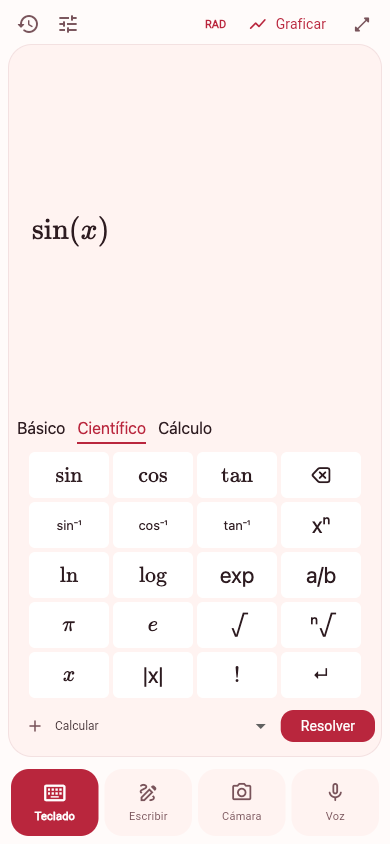
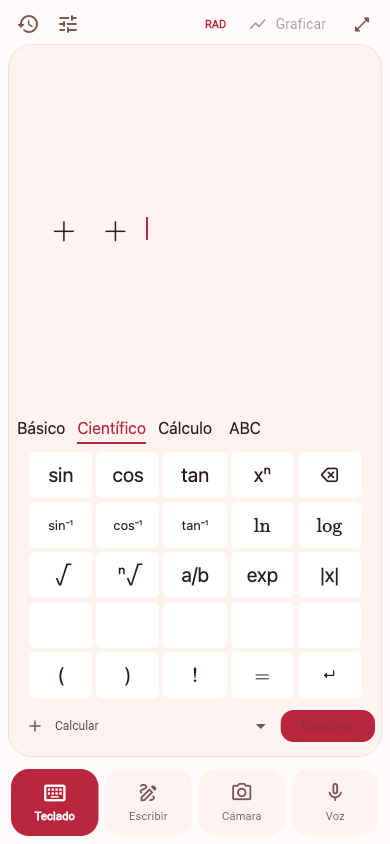
Add QWERTY input and scientific variable keys

diff --git a/app/assets/editor/index.html b/app/assets/editor/index.html
@@ -6,6 +6,8 @@
 body{display:flex;flex-direction:column;overflow-y:auto}#field-wrap{padding:8px 6px;min-height:96px;display:flex;align-items:center;flex:1;overflow:auto}math-field{width:100%;min-width:0;border:0;outline:none;background:transparent;color:var(--fg);font-size:30px;padding:6px;--caret-color:var(--accent);--selection-background-color:#c42d4340;--placeholder-color:var(--accent);--contains-highlight-background-color:#c42d4320;--smart-fence-color:var(--accent)}math-field::part(virtual-keyboard-toggle),math-field::part(menu-toggle){display:none}
 #keyboard{width:100%;height:280px;flex-shrink:0;position:relative;--keyboard-background:var(--bg);--keyboard-toolbar-background:var(--bg);--keycap-background:var(--key);--keycap-text:var(--fg);--keycap-background-hover:var(--key-hover);--keycap-text-hover:var(--fg);--keycap-background-active:var(--key-pressed);--keycap-text-active:var(--fg);--keycap-background-pressed:var(--key-pressed);--keycap-text-pressed:var(--fg);--keycap-secondary-background:var(--key);--keycap-secondary-background-hover:var(--key-hover);--keycap-secondary-text:var(--fg);--keycap-primary-background:var(--accent);--keycap-primary-background-hover:var(--accent);--keycap-primary-text:var(--on-accent);--keycap-height:46px;--keycap-width:calc((100cqw - 24px)/4);--keyboard-toolbar-font-size:14px;--keyboard-toolbar-text-active:var(--accent);--keycap-gap:4px;--keycap-font-size:22px;--keyboard-padding-bottom:4px;--keyboard-padding-top:4px;--keycap-border:1px solid var(--line);--keycap-border-radius:12px;--keycap-shadow:none;--keyboard-toolbar-text:var(--fg)}
 #keyboard .MLK__toolbar>.left{column-gap:8px}
+#jem-scientific .MLK__rows{--keycap-width:calc((100cqw - 24px)/5);--_keycap-font-size:20px;--_keycap-small-font-size:13px}
+#jem-abc .MLK__rows{--keycap-width:min(68px,calc((100cqw - 16px)/10));--_keycap-gap:2px;--_keycap-font-size:18px}
 #keyboard.hidden{display:none}body.compact #field-wrap{min-height:60px;padding:4px 8px}body.compact math-field{font-size:27px}
 @media(max-height:420px){#field-wrap{min-height:64px;padding:0 6px}}
 </style></head><body><div id="field-wrap"><math-field id="mf" aria-label="Equation" inputmode="none" math-virtual-keyboard-policy="manual"></math-field></div><div id="keyboard"></div>
@@ -22,6 +24,9 @@ function key(label, latex=label){return {label,latex};}
 function functionKey(latex){return {latex,label:latex.slice(1),insert:latex+'\\left(#0\\right?'};}
 // typedText uses MathLive's smart-fence behavior when closing a function.
 function fenceKey(label){return {label,command:['typedText',label,{simulateKeystroke:true}]};}
+// QWERTY enters mathematical letters and numbers in the current argument.
+function typedKey(letter){return {label:letter,command:['typedText',letter,{simulateKeystroke:true}]};}
+function letterKeys(letters){return [...letters].map(letter=>({...typedKey(letter),shift:typedKey(letter.toUpperCase())}));}
 function layouts(es){return [
  {label:es?'Básico':'Basic',tooltip:'123',rows:[
  [{label:'C',command:'deleteAll'},fenceKey('('),fenceKey(')'),{label:'⌫',command:'deleteBackward'}],
@@ -29,18 +34,18 @@ function layouts(es){return [
  [key('4'),key('5'),key('6'),key('×','\\times')],
  [key('1'),key('2'),key('3'),key('−','-')],
  [key('0'),key('.'),key('='),key('+')]]},
- {label:es?'Científico':'Scientific',rows:[
- [functionKey('\\sin'),functionKey('\\cos'),functionKey('\\tan'),{label:'⌫',command:'deleteBackward'}],
+ {label:es?'Científico':'Scientific',layers:[{id:'jem-scientific',rows:[
+ [functionKey('\\sin'),functionKey('\\cos'),functionKey('\\tan'),
+  {latex:'^{#?}',label:'xⁿ'},{label:'⌫',command:'deleteBackward'}],
  [{latex:'\\arcsin',label:'sin⁻¹',class:'small'},
   {latex:'\\arccos',label:'cos⁻¹',class:'small'},
-  {latex:'\\arctan',label:'tan⁻¹',class:'small'},
-  {latex:'^{#?}',label:'xⁿ'}],
- ['\\ln','\\log',{latex:'\\exp\\left(#0\\right)',label:'exp'},
-  {latex:'\\frac{#0}{#?}',label:'a/b'}],
- ['\\pi','e',{latex:'\\sqrt{#0}',label:'√'},
-  {latex:'\\sqrt[#?]{#0}',label:'ⁿ√'}],
- ['x',{latex:'\\left|#0\\right|',label:'|x|'},'!',
-  {label:'↵',class:'action',command:['performWithFeedback','commit']}]]},
+  {latex:'\\arctan',label:'tan⁻¹',class:'small'},'\\ln','\\log'],
+ [{latex:'\\sqrt{#0}',label:'√'},{latex:'\\sqrt[#?]{#0}',label:'ⁿ√'},
+  {latex:'\\frac{#0}{#?}',label:'a/b'},{latex:'\\exp\\left(#0\\right)',label:'exp'},
+  {latex:'\\left|#0\\right|',label:'|x|'}],
+ ['x','y','z','\\pi','e'],
+ [fenceKey('('),fenceKey(')'),'!','=',
+  {label:'↵',class:'action',command:['performWithFeedback','commit']}]]}]},
  {label:es?'Cálculo':'Calculus',rows:[
  [{latex:'\\frac{d}{dx}\\left(#0\\right)',label:'d/dx'},
   {latex:'\\int #0 \\,\\mathrm{d}x',label:'∫'},
@@ -50,7 +55,16 @@ function layouts(es){return [
  [key('dx','\\,\\mathrm{d}x'),key('dy','\\,\\mathrm{d}y'),key('dz','\\,\\mathrm{d}z'),key('dt','\\,\\mathrm{d}t')],
  [fenceKey('('),fenceKey(')'),'=',{latex:';',label:es?'fila':'row'}],
  [{label:'↶',command:'undo'},{label:'↷',command:'redo'},
-  {label:'←',command:'moveToPreviousChar'},{label:'→',command:'moveToNextChar'}]]}
+  {label:'←',command:'moveToPreviousChar'},{label:'→',command:'moveToNextChar'}]]},
+ {label:'ABC',tooltip:es?'Letras · QWERTY':'Letters · QWERTY',displayShiftedKeycaps:false,layers:[{id:'jem-abc',rows:[
+ [...'1234567890'].map(n=>typedKey(n)),
+ letterKeys('qwertyuiop'),
+ ['[separator-5]',...letterKeys('asdfghjkl'),'[separator-5]'],
+ [{label:'[shift]',tooltip:es?'Mayúsculas':'Uppercase',width:1.5},...letterKeys('zxcvbnm'),{label:'⌫',command:'deleteBackward',width:1.5}],
+ [fenceKey('('),fenceKey(')'),key('+'),key('−','-'),key('='),
+  {...typedKey(' '),label:'␣',tooltip:es?'Espacio':'Space',width:2},
+  {label:'←',command:'moveToPreviousChar'},{label:'→',command:'moveToNextChar'},
+  {label:'↵',class:'action',command:['performWithFeedback','commit']}]]}]}
 ];}
 // Reconcile against MathLive's actual state after the native view has resized.
 // A requested keyboard can become hidden when its WebView loses focus.
@@ -63,6 +77,16 @@ let syncFrame;
 function scheduleKeyboardSync(){cancelAnimationFrame(syncFrame);syncFrame=requestAnimationFrame(syncKeyboard);}
 new ResizeObserver(scheduleKeyboardSync).observe(document.documentElement);
 mf.addEventListener('focus',scheduleKeyboardSync);
+// This manual keyboard belongs to one editor, even while Flutter has focus.
+// Route editing commands directly to it instead of relying on MathLive's
+// delayed (60ms) reconnection of a blurred field to the virtual keyboard.
+const dispatchKeyboardCommand=window.mathVirtualKeyboard.executeCommand.bind(window.mathVirtualKeyboard);
+const keyboardCommands=new Set(['switchKeyboardLayer','toggleVirtualKeyboard','hideVirtualKeyboard','showVirtualKeyboard']);
+window.mathVirtualKeyboard.executeCommand=command=>{
+ const selector=Array.isArray(command)?command[0]:command;
+ if(keyboardCommands.has(selector))return dispatchKeyboardCommand(command);
+ mf.focus({preventScroll:true});return mf.executeCommand(command);
+};
 mf.menuItems=[];mf.smartFence=true;mf.inlineShortcuts={...mf.inlineShortcuts,sen:'\\sin',tg:'\\tan'};
 window.configure=function(c){
  const st=document.documentElement.style;const dark=c.dark;

diff --git a/app/test/core/model_test.dart b/app/test/core/model_test.dart
@@ -83,6 +83,33 @@ void main() {
     return model;
   }
 
+  test('variable picker offers actual letters, not functions or constants', () {
+    final m = model()..edit(r'a+b+N+\sin(q)+\pi+e');
+    expect(m.variableOptions, ['x', 'y', 'z', 't', 'a', 'b', 'N', 'q']);
+    m.setVariable('q');
+    m.edit(r'\frac{a}{');
+    expect(m.variableOptions, contains('q'));
+  });
+
+  test('QWERTY variables can be selected for calculus and persist', () async {
+    FlutterSecureStorage.setMockInitialValues({});
+    final m = model()
+      ..edit('a^2+b')
+      ..setOperation('differentiate')
+      ..setVariable('a');
+    final pending = m.calculate();
+    expect(api.calls.single.body['variable'], 'a');
+    expect(api.calls.single.body['operation'], 'differentiate');
+    api.calls.single.response.complete(answer('2a'));
+    await pending;
+    await m.save();
+    final reopened = AppModel(store: store);
+    addTearDown(reopened.dispose);
+    await reopened.load();
+    expect(reopened.variable, 'a');
+    expect(reopened.variableOptions, containsAll(['a', 'b']));
+  });
+
   test(
     'curve visibility survives reopening without deleting calculation history',
     () async {

diff --git a/app/lib/core/model.dart b/app/lib/core/model.dart
@@ -520,6 +520,18 @@ class AppModel extends ChangeNotifier {
     }
   }
 
+  /// Offer the letters actually used in the equation as calculation targets.
+  /// Read the AST so function names and constants don't become fake variables.
+  List<String> get variableOptions {
+    final names = <String>{'x', 'y', 'z', 't', variable};
+    try {
+      names.addAll(_symbols(parseLatex(latex)));
+    } on MathParseException {
+      // Keep the current selection available while an expression is incomplete.
+    }
+    return names.toList();
+  }
+
   bool requiresCasStructure(dynamic node) {
     if (node is List) return node.any(requiresCasStructure);
     if (node is! Map) return false;

diff --git a/app/lib/features/home.dart b/app/lib/features/home.dart
@@ -485,12 +485,9 @@ class _Actions extends StatelessWidget {
             tooltip: s.t('Variable', 'Variable'),
             initialValue: m.variable,
             onSelected: m.setVariable,
-            itemBuilder: (_) => [
-              'x',
-              'y',
-              'z',
-              't',
-            ].map((v) => PopupMenuItem(value: v, child: Text(v))).toList(),
+            itemBuilder: (_) => m.variableOptions
+                .map((v) => PopupMenuItem(value: v, child: Text(v)))
+                .toList(),
             child: Padding(
               padding: const EdgeInsets.symmetric(horizontal: 10),
               child: Text(

diff --git a/server/jemcalc/templates/android.html b/server/jemcalc/templates/android.html
@@ -35,7 +35,7 @@
     <p>Tu calculadora, siempre a mano.</p>
   </header>
   <a class="download" href="/downloads/{{apk}}" download>Descargar APK</a>
-  <p class="meta">Versión 1.0.5 · 64 MB · Android 7 o posterior</p>
+  <p class="meta">Versión 1.0.6 · 64 MB · Android 7 o posterior</p>
   <ol>
     <li>Descarga el archivo y ábrelo.</li>
     <li>Si Android lo solicita, permite a tu navegador <strong>instalar desde esta fuente</strong>.</li>

diff --git a/server/jemcalc/production.py b/server/jemcalc/production.py
@@ -26,7 +26,7 @@ from .config import get_settings
 COOKIE = "__Host-jemcalc"
 SESSION_SECONDS = 7 * 24 * 3600
 HERE = Path(__file__).parent
-ANDROID_APK = "jemcalc-1.0.5-7.apk"
+ANDROID_APK = "jemcalc-1.0.6-8.apk"
 
 
 def login_destination(value: str | None):

diff --git a/README.md b/README.md
@@ -47,7 +47,11 @@ Las capturas muestran la aplicación web real con su paleta roja y ecuaciones de
 
 ### 1. Teclado: cálculo científico y simbólico
 
-Introduce fracciones, raíces, potencias y funciones con las pestañas **Básico**, **Científico** y **Cálculo**. Selecciona la operación y pulsa **Resolver** o Enter. La pantalla de la ecuación se puede maximizar. Las teclas `sin`, `cos` y `tan` abren el argumento automáticamente y dejan el cursor dentro; `)` permite continuar fuera de la función. Las teclas pulsadas usan un resaltado suave y legible en el tema claro.
+Introduce fracciones, raíces, potencias y funciones con las pestañas **Básico**, **Científico**, **Cálculo** y **ABC**. Selecciona la operación y pulsa **Resolver** o Enter. La pantalla de la ecuación se puede maximizar. Las teclas `sin`, `cos` y `tan` abren el argumento automáticamente y dejan el cursor dentro; `)` permite continuar fuera de la función. Las teclas pulsadas usan un resaltado suave y legible en el tema claro.
+
+El teclado **Científico** incluye `x`, `y` y `z`. **ABC** abre un QWERTY con letras A–Z, mayúsculas con Shift, números, paréntesis, operadores, espacio, flechas y borrado. Los cuatro teclados mantienen cinco filas para conservar espacio para la ecuación. Las variables son letras individuales; `e` y `π` mantienen su significado como constantes matemáticas. Para derivar o integrar, el selector de variable también ofrece las letras presentes en la expresión, como `a` o `n`.
+
+![Teclado QWERTY para escribir variables y completar ecuaciones](docs/screenshots/qwerty.png)
 
 - **Calcular** evalúa aritmética racional exacta o aproximaciones numéricas locales.
 - **Exacto**, **Simplificar**, **Expandir** y **Factorizar** usan el CAS.
@@ -174,7 +178,7 @@ El backend de desarrollo requiere que la Mac siga encendida y sea accesible para
 
 ### Instalar el APK Android sin herramientas de desarrollo
 
-Desde el teléfono, abre [Instalar Jem Calc para Android](https://calc.jemailabs.com/android). Introduce la clave del piloto si se solicita; al iniciar sesión volverás a la página de instalación. Pulsa **Descargar APK** (versión 1.0.5, compilación 7), abre el archivo y, si Android lo solicita, permite a ese navegador instalar aplicaciones de esa fuente. No requiere depuración USB. Si lo abriste dentro de otra app y no comienza la descarga, abre la página en Chrome.
+Desde el teléfono, abre [Instalar Jem Calc para Android](https://calc.jemailabs.com/android). Introduce la clave del piloto si se solicita; al iniciar sesión volverás a la página de instalación. Pulsa **Descargar APK** (versión 1.0.6, compilación 8), abre el archivo y, si Android lo solicita, permite a ese navegador instalar aplicaciones de esa fuente. No requiere depuración USB. Si lo abriste dentro de otra app y no comienza la descarga, abre la página en Chrome.
 
 La app ya apunta al servidor alojado. Introduce el token del piloto facilitado por el administrador en **Configuración → Token del piloto**, guarda los cambios y prueba `x+1=2`. El token nativo es diferente de la clave de acceso de la web y no está dentro del instalador.
 
@@ -190,7 +194,7 @@ keyPassword=TU_CONTRASENA_PRIVADA
 Desde `app/`, con los certificados opcionales `assets/pilot/server.pem` y `server.der` guardados temporalmente fuera de los assets para una distribución de producción:
 
 ```sh
-flutter build apk --release --build-name=1.0.5 --build-number=7 \
+flutter build apk --release --build-name=1.0.6 --build-number=8 \
   --dart-define=PILOT_URL=https://calc.jemailabs.com/api
 ```
 
@@ -268,6 +272,7 @@ Para pruebas de navegador, instala Playwright en un entorno local y ejecuta desd
 node scripts/test_web.mjs
 node scripts/test_editor.mjs
 node scripts/test_graph_systems_web.mjs
+node scripts/test_qwerty_web.mjs
 ```
 
 Los scripts usan Chrome instalado. Si el módulo está en otro entorno, define `PLAYWRIGHT_MODULE` con la ruta absoluta a su `index.mjs`. Los informes y capturas se guardan en `output/playwright/`, excluido de Git.

diff --git a/deploy/README.md b/deploy/README.md
@@ -11,7 +11,7 @@ The owner chose a private pilot with a shared access password on 6 October 2026.
 - `/home/juan/jemcalc/current` points to the active release.
 - The download mount was added in configuration release `20261007-android-installer`, reusing the existing `20261006-pilot-3` application image.
 - `/home/juan/jemcalc/shared/.env` contains production credentials, mode 600; each release's `deploy/.env` is a symlink to it.
-- Active Compose project: `jemcalc`; container: `jemcalc-app-1`; image: `jemcalc:20261007-graph-labels` (readable mathematical graph labels, including saved equations, with Android 1.0.5 installer).
+- Active Compose project: `jemcalc`; container: `jemcalc-app-1`; image: `jemcalc:20261007-qwerty` (scientific x/y/z keys, QWERTY input and expression-variable selection, with Android 1.0.6 installer).
 - Backend listener: **127.0.0.1:5188**, forwarded to container port 8080. This port was checked unused before deployment.
 - Nginx virtual host: `/etc/nginx/sites-available/calc.jemailabs.com.conf`, linked from `sites-enabled`. The repository copy is `deploy/calc.jemailabs.com.conf`.
 - Cloudflare: proxied A record `calc` → `144.126.131.104`; TTL Auto; zone encryption remains **Full (strict)**. Nginx uses the existing Cloudflare Origin CA wildcard certificate for `*.jemailabs.com`. Keep the record proxied: the origin certificate is intended for Cloudflare, while visitors use Cloudflare's publicly trusted edge certificate.
@@ -24,7 +24,7 @@ Compose mounts `/home/juan/jemcalc/shared/downloads` read-only at `/srv/web/down
 
 Share **https://calc.jemailabs.com/android** for installation. Both that page and direct `/downloads/` links preserve `/android` as an allowlisted destination across login, including a failed password attempt. After login, the page has an explicit download button; the APK response uses the Android package MIME type and `Content-Disposition: attachment`, with range requests supported. Arbitrary `next` URLs are rejected in favor of the calculator root. Sessions remain private, signed, HttpOnly, Secure and SameSite=Strict.
 
-The current signed Android installer is `/downloads/jemcalc-1.0.5-7.apk` (version 1.0.5, build 7). It uses the original release signing key and can update builds 2–6 without clearing history. The APK contains only the public API URL; the native pilot token is entered once in the app's settings. The web and native apps share the same completion and graph preparation rules. Earlier versioned APKs remain in the protected download directory for rollback.
+The current signed Android installer is `/downloads/jemcalc-1.0.6-8.apk` (version 1.0.6, build 8). It uses the original release signing key and can update builds 2–7 without clearing history. The APK contains only the public API URL; the native pilot token is entered once in the app's settings. The web and native apps share the same completion and graph preparation rules. Earlier versioned APKs remain in the protected download directory for rollback.
 
 Signing material is private and excluded from Git: local `.local/android-signing/` plus `app/android/key.properties`. Keep a secure backup and reuse the same key for future updates. Neither the signing key nor the native token is uploaded with the APK. Each update must increase Android's build number. The Android release signature differs from the earlier debug/profile test installations.
 
